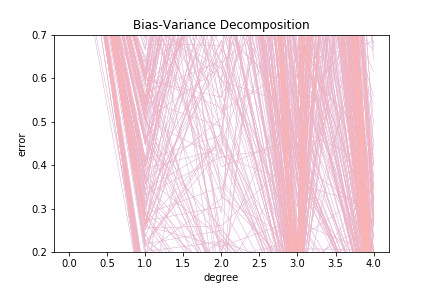
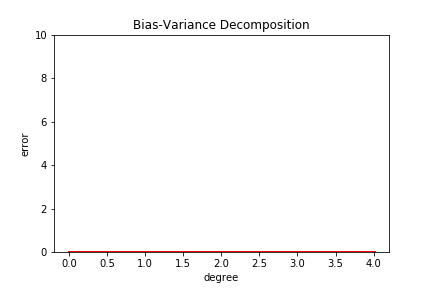
debug

diff --git a/scripts/implementations.py b/scripts/implementations.py
@@ -118,6 +118,7 @@ def sigmoid(t):
 def calculate_loss(y, tx, w):
     """compute the cost by negative log likelihood."""
 
+    #return log likelihood loss
     loss = np.sum(np.log(1 + np.exp(tx.dot(w)))) - y.T.dot(tx.dot(w))
     #loss /= tx.shape[0]
 
@@ -163,8 +164,9 @@ def logistic_regression(y, tx, initial_w, max_iters, gamma):
 
         # For debug: log info
         #if iter % 100 == 0:
-            #print("Current iteration={i}, loss={l}".format(i=iter, l=loss))
-        # converge criterion
+            #print("Current iteration={i}, loss={l}".format(i=iter, l=loss)
+            
+        # converging criterion, end loop if values are close
         prev_loss = loss
         if prev_loss != 0 and np.abs(loss - prev_loss) < threshold:
             break
@@ -177,7 +179,8 @@ def learning_by_penalized_gradient_descent(y, tx, w, lambda_, gamma):
     """
     Do one step of gradient descen using logistic regression.
     Return the loss and the updated w.
-    """  
+    """ 
+   
     grad = calculate_gradient(y, tx, w) + lambda_*w
     
     w = w - gamma*grad
@@ -191,7 +194,6 @@ def reg_logistic_regression(y, tx, lambda_, initial_w, max_iters, gamma):
     # init parameters
     threshold = 1e-8
     prev_loss = 0
-
        
     # build tx with adding constant 1 as first column
     x = np.c_[np.ones((y.shape[0], 1)), tx]
@@ -206,7 +208,7 @@ def reg_logistic_regression(y, tx, lambda_, initial_w, max_iters, gamma):
         #if iter % 100 == 0:
             #print("Current iteration={i}, loss={l}".format(i=iter, l=loss))
         
-        # converge criterion        
+        # converging criterion, end loop if values are close        
         prev_loss = loss
         if prev_loss != 0 and np.abs(loss - prev_loss) < threshold:
             break
@@ -378,7 +380,6 @@ def bias_variance_decomposition_visualization(degrees, rmse_tr, rmse_te):
     """visualize the bias variance decomposition."""
     rmse_tr_mean = np.expand_dims(np.mean(rmse_tr, axis=0), axis=0)
     rmse_te_mean = np.expand_dims(np.mean(rmse_te, axis=0), axis=0)
-    plt.ylim(0, 10)
     plt.plot(
         degrees,
         rmse_tr.T,
@@ -409,7 +410,7 @@ def bias_variance_decomposition_visualization(degrees, rmse_tr, rmse_te):
         linestyle="-",
         label='test',
         linewidth=3)
-    plt.ylim(0, 10)
+    plt.ylim([0, 1])
     plt.xlabel("degree")
     plt.ylabel("error")
     plt.title("Bias-Variance Decomposition")
